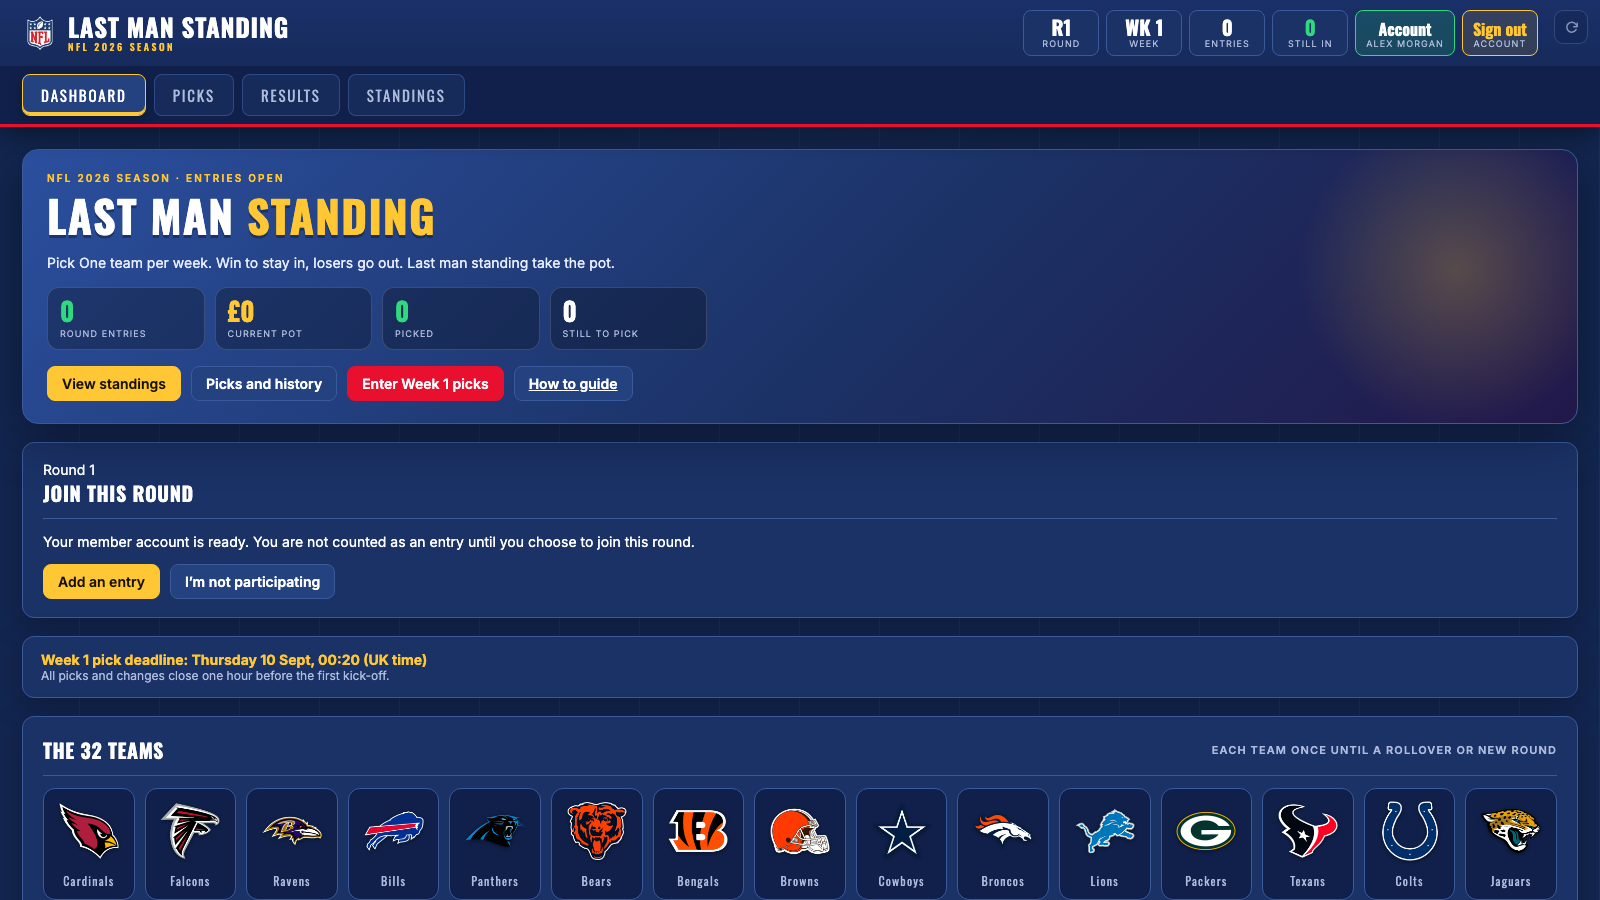
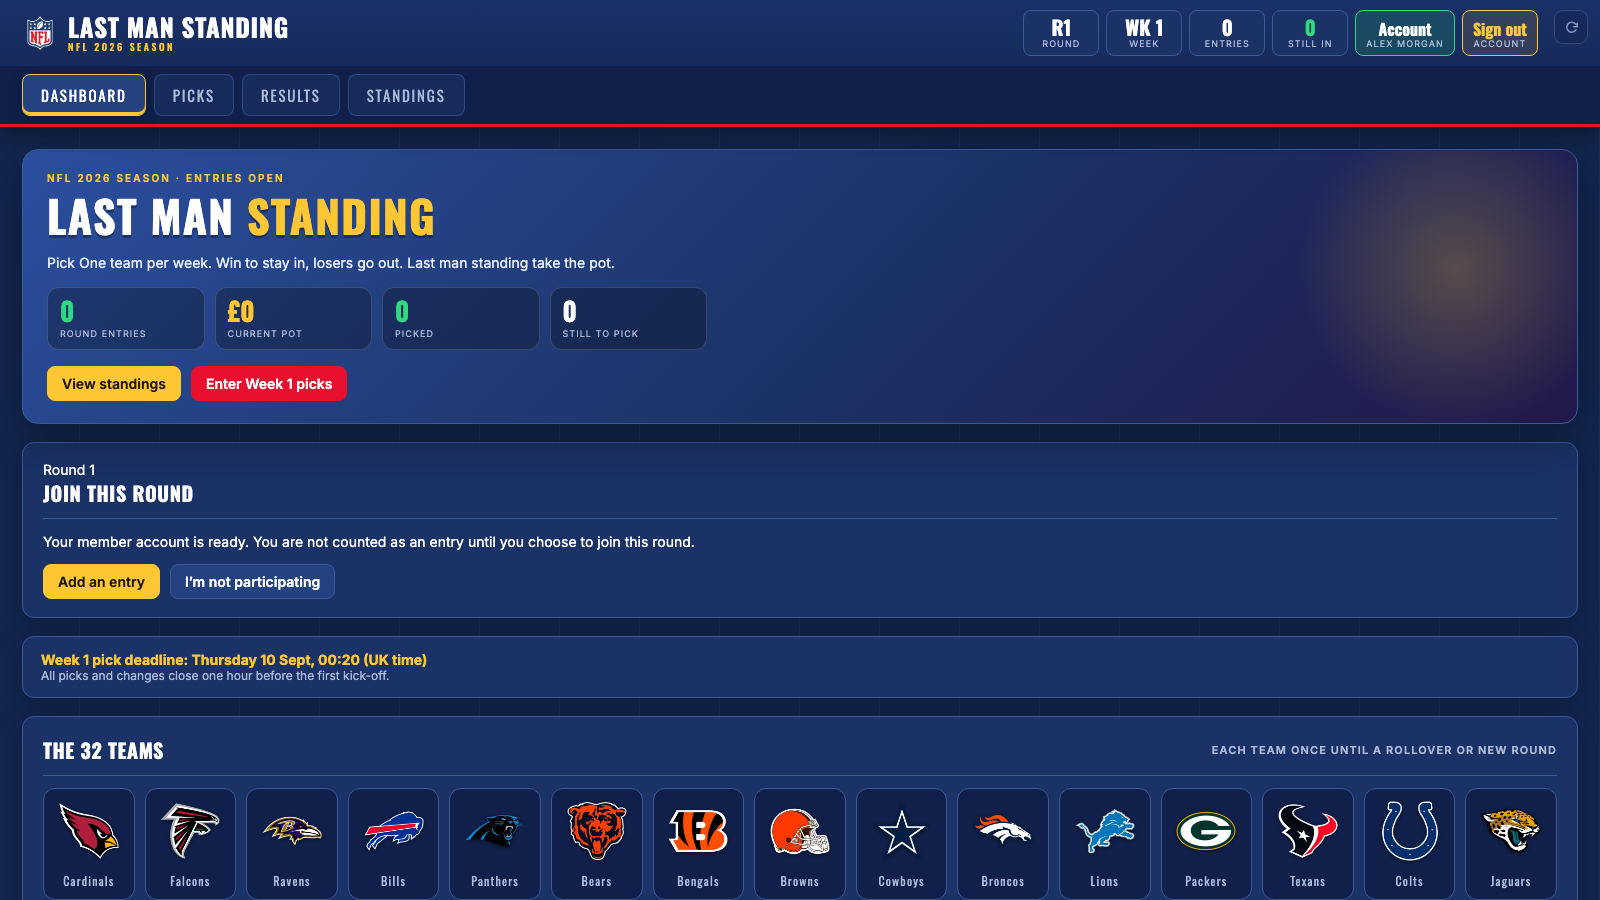
Simplify dashboard actions

Changed region(s): [[0.0938, 0.4044, 0.4062, 0.4667]]

diff --git a/index.html b/index.html
@@ -256,6 +256,8 @@ body.player .season{display:flex;flex-wrap:wrap;gap:10px}
 .herostat .v{font-size:26px;overflow-wrap:anywhere}
 .herostat .l{font-size:9px;letter-spacing:.12em}
 .hero-actions{margin-top:16px;display:flex;gap:10px;flex-wrap:wrap}
+.dashboard-utilities{display:flex;justify-content:flex-end;gap:8px;flex-wrap:wrap;margin:18px 0 4px}.dashboard-utilities .btn{text-decoration:none;background:rgba(36,66,127,.55)}.dashboard-utilities .admin-link{border-color:var(--green);background:rgba(31,191,106,.14)}
+.bigpot:before{content:none}
 .member-week-status{position:absolute;z-index:2;top:18px;right:18px;min-width:104px;border:1px solid currentColor;border-radius:10px;padding:9px 12px;color:#fff;text-align:center;cursor:pointer;box-shadow:0 5px 18px rgba(0,0,0,.28)}
 .member-week-status span,.member-week-status strong{display:block}.member-week-status span{font:600 13px var(--font-head);letter-spacing:.08em;text-transform:uppercase}.member-week-status strong{margin-top:3px;font-size:11px;letter-spacing:.08em;text-transform:uppercase}
 .member-week-status.paid{background:#08783d;border-color:var(--green)}.member-week-status.unpaid{background:#a80f27;border-color:var(--red-2)}.member-week-status.sitting{background:var(--gold);border-color:var(--gold);color:#1a1200}
@@ -816,10 +818,7 @@ function renderHome(r,comp,afterHero=''){
     </div>
     <div class="hero-actions">
       <button class="btn gold" onclick="setView('standings')">View standings</button>
-      <button class="btn" onclick="setView('picks')">Picks and history</button>
       <button class="btn primary" onclick="${accountUser?`setWeek(${w});setView('picks')`:`location.href='/signup'`}">${accountUser?`Enter Week ${w} picks`:'Register or sign in'}</button>
-      ${accountUser&&['owner','admin'].includes(accountUser.role)?'<a class="btn" style="border-color:var(--green);background:rgba(31,191,106,.2)" href="/admin">Admin area</a>':''}
-      <a class="btn" href="/help">How to guide</a>
     </div>
   </div>
   ${afterHero}
@@ -846,6 +845,10 @@ function renderHome(r,comp,afterHero=''){
           <div class="date"><div class="l">Final week</div><div class="d">${new Date(last.date).toLocaleDateString('en-GB',{weekday:'long',day:'numeric',month:'short',year:'numeric',timeZone:'Europe/London'}).replace(',','')}</div><div class="small muted">Week 18</div></div>
         </div>
     </div>
+  </div>
+  <div class="dashboard-utilities" aria-label="Dashboard help and administration">
+    ${accountUser&&['owner','admin'].includes(accountUser.role)?'<a class="btn admin-link" href="/admin">Admin area</a>':''}
+    <a class="btn" href="/help">How to guide</a>
   </div>`;
 }
 
@@ -888,7 +891,6 @@ function renderDash(r,comp){
         <button class="btn primary edit" onclick="setWeek(${w});setView('picks')">Make Week ${w} picks</button>
         <button class="btn edit" onclick="setWeek(${w});setView('results')">Enter results</button>
         ${HOSTED?'':`<button class="btn edit" onclick="fetchWeekResults(${w})">⟳ Fetch Week ${w} scores</button>`}
-        <button class="btn" onclick="setView('picks')">Picks and history</button>
       </div>
     </div>
     <div class="card" style="margin:0">
@@ -942,7 +944,7 @@ function renderStandings(r,comp){
     return `<div class="standing-row"><div class="standing-name"><strong>${esc(entryName(e.id))}</strong></div><div class="standing-picks" aria-label="Teams picked by ${esc(entryName(e.id))}">${picks.join('')||'<span class="muted small">No picks yet</span>'}</div></div>`;
   }).join('')}</div>`:'<div class="empty">Nobody in this group.</div>';
   return `<div class="hero">
-    <div class="bigpot"><div class="lbl">Round ${r.n} prize pot</div><div class="amt">${gbp(pot)}</div><div class="muted small">Confirmed entry and rollover fees &middot; ${entries.length} round ${entries.length===1?'entry':'entries'}</div><div style="margin-top:16px"><button class="btn" onclick="setView('picks')">Picks and history</button></div></div>
+    <div class="bigpot"><div class="lbl">Round ${r.n} prize pot</div><div class="amt">${gbp(pot)}</div><div class="muted small">Confirmed entry and rollover fees &middot; ${entries.length} round ${entries.length===1?'entry':'entries'}</div></div>
     <div class="card" style="margin:0"><h2>Week ${w} status <span class="tag">${weekSettled(w)?'Settled':weekHasResults(w)?'In progress':'Upcoming'}</span></h2><div class="grid two" style="gap:10px"><div><div class="muted small">Still in</div><div style="font-family:var(--font-head);font-size:34px;color:var(--green)">${comp.alive.size}</div></div><div><div class="muted small">Picks outstanding</div><div style="font-family:var(--font-head);font-size:34px;color:${missing.length?'var(--gold)':'var(--green)'}">${missing.length}</div></div></div>${missing.length?`<div class="small muted" style="margin-top:8px">Waiting on: ${missing.slice(0,12).map(e=>esc(e.name)).join(', ')}${missing.length>12?` +${missing.length-12} more`:''}</div>`:''}<div style="margin-top:12px"><div class="muted small" style="margin-bottom:6px">Most picked this week</div>${popular.length?popular.map(([t,c])=>`<span class="av">${logoImg(t)} ${TEAMS[t].short} <b>${c}</b></span>`).join(' '):'<span class="muted small">No picks yet</span>'}</div></div>
   </div>
   <div class="card" style="margin-top:18px"><h1 style="font-family:var(--font-head);margin-top:0">Standings</h1><p class="muted">Round ${r.n}. Current Week ${w} picks stay hidden until kick-off.</p>
@@ -1552,8 +1554,7 @@ function memberEntrySwitcher(){
 function memberTools(){return `<div class="card account-identity"><div><div class="help-kicker">Account settings</div><h1>${esc(accountUser?.name||'Member')}</h1><div class="muted">${esc(accountUser?.email||'')}</div></div><div class="account-actions"><button class="btn" onclick="changeAccountPassword()">Change password</button><a class="btn" href="/help">How to use the app</a><a class="btn gold" href="/dashboard">Exit account settings</a></div></div>`;}
 function noEntryBanner(){
  if(!accountUser||accountEntries.length)return '';
- const staff=['owner','admin'].includes(accountUser.role);
- const sittingOut=accountParticipation==='not_participating';return `<div class="card join-round"><div class="kick">Round ${currentRound().n}</div><h2>${sittingOut?'You are not participating':'Join this round'}</h2><p>${sittingOut?'You are currently marked as not participating. Add an entry whenever you decide to join.':'Your member account is ready. You are not counted as an entry until you choose to join this round.'}</p><div class="row"><button class="btn gold" onclick="addAccountEntry()">Add an entry</button>${!sittingOut?`<button class="btn" onclick="setAccountParticipation('not_participating')">I’m not participating</button>`:''}${sittingOut?`<button class="btn" onclick="setAccountParticipation('not_entered')">Clear this status</button>`:''}${staff?'<a class="btn" href="/admin">Open Admin area</a>':''}</div></div>`;
+ const sittingOut=accountParticipation==='not_participating';return `<div class="card join-round"><div class="kick">Round ${currentRound().n}</div><h2>${sittingOut?'You are not participating':'Join this round'}</h2><p>${sittingOut?'You are currently marked as not participating. Add an entry whenever you decide to join.':'Your member account is ready. You are not counted as an entry until you choose to join this round.'}</p><div class="row"><button class="btn gold" onclick="addAccountEntry()">Add an entry</button>${!sittingOut?`<button class="btn" onclick="setAccountParticipation('not_participating')">I’m not participating</button>`:''}${sittingOut?`<button class="btn" onclick="setAccountParticipation('not_entered')">Clear this status</button>`:''}</div></div>`;
 }
 function memberWeekStatus(r,comp){
  if(!accountUser)return '';
@@ -1565,7 +1566,7 @@ function memberWeekStatus(r,comp){
  return `<button type="button" class="member-week-status ${state}" onclick="focusRoundStatus()" aria-label="Week ${week}: ${label}"><span>Week ${week}</span><strong>${label}</strong></button>`;
 }
 function focusRoundStatus(){document.querySelector('.entry-controls,.join-round')?.scrollIntoView({behavior:'smooth',block:'center'});}
-function memberDashboardControls(e){const paid=e&&entryPaid(e),name=e?entryName(e.id):'',staff=['owner','admin'].includes(accountUser?.role);return `<div class="card entry-controls"><h2>Your round entries <span class="tag">${accountEntries.length} ${accountEntries.length===1?'entry':'entries'}</span></h2>${memberEntrySwitcher()}<div class="row"><button class="btn gold" onclick="addAccountEntry()">Add another entry</button>${e&&!paid?`<button class="btn danger" onclick="removeAccountEntry('${e.id}','${esc(name)}')">Remove this unpaid entry</button>`:''}<button class="btn" onclick="setAccountParticipation('not_participating')">Sit out this round</button>${staff?'<a class="btn" style="border-color:var(--green);background:rgba(31,191,106,.2)" href="/admin">Open Admin area</a>':''}</div><p class="small muted">Every entry must be approved and marked paid by an administrator before it can make a pick. Paid entries must be marked unpaid by an administrator before removal.</p></div>`;}
+function memberDashboardControls(e){const paid=e&&entryPaid(e),name=e?entryName(e.id):'';return `<div class="card entry-controls"><h2>Your round entries <span class="tag">${accountEntries.length} ${accountEntries.length===1?'entry':'entries'}</span></h2>${memberEntrySwitcher()}<div class="row"><button class="btn gold" onclick="addAccountEntry()">Add another entry</button>${e&&!paid?`<button class="btn danger" onclick="removeAccountEntry('${e.id}','${esc(name)}')">Remove this unpaid entry</button>`:''}<button class="btn" onclick="setAccountParticipation('not_participating')">Sit out this round</button></div><p class="small muted">Every entry must be approved and marked paid by an administrator before it can make a pick. Paid entries must be marked unpaid by an administrator before removal.</p></div>`;}
 function renderAccountPage(){
  document.body.classList.add('ro','player');document.getElementById('nav').classList.remove('hidden');const r=currentRound(),comp=computeRound(r),w=defaultWeek();renderHeader(r,comp);document.querySelectorAll('nav button').forEach(b=>b.classList.remove('active'));
  document.getElementById('main').innerHTML=memberTools()+`<div class="card"><h2>Round participation</h2><p>${accountEntries.length?`You have ${accountEntries.length} ${accountEntries.length===1?'entry':'entries'} in Round ${r.n}. Manage entries and picks from your Dashboard.`:accountParticipation==='not_participating'?`You are marked as not participating in Round ${r.n}. You can join from your Dashboard.`:`You have not joined Round ${r.n}. Add an entry from your Dashboard if you want to play.`}</p><a class="btn gold" href="/dashboard">Go to Dashboard</a></div>`;const foot=document.getElementById('foot');if(foot)foot.textContent='Your NFL LMS account settings.';

diff --git a/lib/account-client.js b/lib/account-client.js
@@ -49,8 +49,7 @@ function memberEntrySwitcher(){
 function memberTools(){return `<div class="card account-identity"><div><div class="help-kicker">Account settings</div><h1>${esc(accountUser?.name||'Member')}</h1><div class="muted">${esc(accountUser?.email||'')}</div></div><div class="account-actions"><button class="btn" onclick="changeAccountPassword()">Change password</button><a class="btn" href="/help">How to use the app</a><a class="btn gold" href="/dashboard">Exit account settings</a></div></div>`;}
 function noEntryBanner(){
  if(!accountUser||accountEntries.length)return '';
- const staff=['owner','admin'].includes(accountUser.role);
- const sittingOut=accountParticipation==='not_participating';return `<div class="card join-round"><div class="kick">Round ${currentRound().n}</div><h2>${sittingOut?'You are not participating':'Join this round'}</h2><p>${sittingOut?'You are currently marked as not participating. Add an entry whenever you decide to join.':'Your member account is ready. You are not counted as an entry until you choose to join this round.'}</p><div class="row"><button class="btn gold" onclick="addAccountEntry()">Add an entry</button>${!sittingOut?`<button class="btn" onclick="setAccountParticipation('not_participating')">I’m not participating</button>`:''}${sittingOut?`<button class="btn" onclick="setAccountParticipation('not_entered')">Clear this status</button>`:''}${staff?'<a class="btn" href="/admin">Open Admin area</a>':''}</div></div>`;
+ const sittingOut=accountParticipation==='not_participating';return `<div class="card join-round"><div class="kick">Round ${currentRound().n}</div><h2>${sittingOut?'You are not participating':'Join this round'}</h2><p>${sittingOut?'You are currently marked as not participating. Add an entry whenever you decide to join.':'Your member account is ready. You are not counted as an entry until you choose to join this round.'}</p><div class="row"><button class="btn gold" onclick="addAccountEntry()">Add an entry</button>${!sittingOut?`<button class="btn" onclick="setAccountParticipation('not_participating')">I’m not participating</button>`:''}${sittingOut?`<button class="btn" onclick="setAccountParticipation('not_entered')">Clear this status</button>`:''}</div></div>`;
 }
 function memberWeekStatus(r,comp){
  if(!accountUser)return '';
@@ -62,7 +61,7 @@ function memberWeekStatus(r,comp){
  return `<button type="button" class="member-week-status ${state}" onclick="focusRoundStatus()" aria-label="Week ${week}: ${label}"><span>Week ${week}</span><strong>${label}</strong></button>`;
 }
 function focusRoundStatus(){document.querySelector('.entry-controls,.join-round')?.scrollIntoView({behavior:'smooth',block:'center'});}
-function memberDashboardControls(e){const paid=e&&entryPaid(e),name=e?entryName(e.id):'',staff=['owner','admin'].includes(accountUser?.role);return `<div class="card entry-controls"><h2>Your round entries <span class="tag">${accountEntries.length} ${accountEntries.length===1?'entry':'entries'}</span></h2>${memberEntrySwitcher()}<div class="row"><button class="btn gold" onclick="addAccountEntry()">Add another entry</button>${e&&!paid?`<button class="btn danger" onclick="removeAccountEntry('${e.id}','${esc(name)}')">Remove this unpaid entry</button>`:''}<button class="btn" onclick="setAccountParticipation('not_participating')">Sit out this round</button>${staff?'<a class="btn" style="border-color:var(--green);background:rgba(31,191,106,.2)" href="/admin">Open Admin area</a>':''}</div><p class="small muted">Every entry must be approved and marked paid by an administrator before it can make a pick. Paid entries must be marked unpaid by an administrator before removal.</p></div>`;}
+function memberDashboardControls(e){const paid=e&&entryPaid(e),name=e?entryName(e.id):'';return `<div class="card entry-controls"><h2>Your round entries <span class="tag">${accountEntries.length} ${accountEntries.length===1?'entry':'entries'}</span></h2>${memberEntrySwitcher()}<div class="row"><button class="btn gold" onclick="addAccountEntry()">Add another entry</button>${e&&!paid?`<button class="btn danger" onclick="removeAccountEntry('${e.id}','${esc(name)}')">Remove this unpaid entry</button>`:''}<button class="btn" onclick="setAccountParticipation('not_participating')">Sit out this round</button></div><p class="small muted">Every entry must be approved and marked paid by an administrator before it can make a pick. Paid entries must be marked unpaid by an administrator before removal.</p></div>`;}
 function renderAccountPage(){
  document.body.classList.add('ro','player');document.getElementById('nav').classList.remove('hidden');const r=currentRound(),comp=computeRound(r),w=defaultWeek();renderHeader(r,comp);document.querySelectorAll('nav button').forEach(b=>b.classList.remove('active'));
  document.getElementById('main').innerHTML=memberTools()+`<div class="card"><h2>Round participation</h2><p>${accountEntries.length?`You have ${accountEntries.length} ${accountEntries.length===1?'entry':'entries'} in Round ${r.n}. Manage entries and picks from your Dashboard.`:accountParticipation==='not_participating'?`You are marked as not participating in Round ${r.n}. You can join from your Dashboard.`:`You have not joined Round ${r.n}. Add an entry from your Dashboard if you want to play.`}</p><a class="btn gold" href="/dashboard">Go to Dashboard</a></div>`;const foot=document.getElementById('foot');if(foot)foot.textContent='Your NFL LMS account settings.';

diff --git a/tests/logic.test.js b/tests/logic.test.js
@@ -58,10 +58,11 @@ test('mobile navigation, refresh, help, privacy and announcements stay wired',()
   const standings=current.match(/function renderStandings\(r,comp\)\{[\s\S]*?\/\* ---- Picks ---- \*\//)[0];assert.doesNotMatch(standings,/Awaiting payment|paid, .* unpaid/);
   assert.match(current,/accountUser\?\.name/);assert.match(current,/Add another entry/);assert.match(current,/Choose an entry/);assert.match(current,/must be approved and marked paid/);
   assert.match(current,/function memberWeekStatus\(r,comp\)/);assert.match(current,/Week \$\{week\}/);assert.match(current,/Sitting Out/);assert.match(current,/Not Paid/);assert.match(current,/member-week-status\.paid/);assert.match(current,/member-week-status\.unpaid/);assert.match(current,/member-week-status\.sitting/);
+  assert.match(current,/\.bigpot:before\{content:none\}/);assert.doesNotMatch(current,/Picks and history/);
   assert.match(current,/Rob O’Shea 1/);assert.match(current,/function entryName\(id\)/);assert.match(current,/accountPage==='\/account'\)return renderAccountPage/);
   assert.match(current,/New player\?/);assert.match(current,/Register before you sign in/);assert.match(current,/Register and create account/);assert.match(current,/href="\/signup"/);
   assert.match(current,/function saveMemberName\(/);assert.match(current,/hidden member ID/);assert.match(current,/Last name required/);assert.match(current,/accountUser\?\.role==='owner'/);assert.match(current,/spreadsheet importer is kept in the owner area/);
-  assert.match(current,/function noEntryBanner\(/);assert.match(current,/Join this round/);assert.match(current,/Open Admin area/);assert.match(current,/Add an entry/);assert.match(current,/not participating/);assert.doesNotMatch(current,/if\(!accountEntries\.length\).*return true/);
+  assert.match(current,/function noEntryBanner\(/);assert.match(current,/Join this round/);assert.match(current,/dashboard-utilities/);assert.match(current,/admin-link/);assert.match(current,/Add an entry/);assert.match(current,/not participating/);assert.doesNotMatch(current,/if\(!accountEntries\.length\).*return true/);
   assert.match(current,/Admin pick override/);assert.match(current,/function confirmAdminPick\(/);assert.match(current,/Save admin pick/);assert.match(current,/managed=ADMIN\?entries/);assert.match(current,/What if I cannot sign in before the deadline\?/);assert.match(fs.readFileSync('lib/api.js','utf8'),/deadlineOverridden/);
   assert.match(current,/Mark paid/);assert.match(current,/>Paid<\/span>/);assert.doesNotMatch(current,/Eligible<\/span>/);assert.doesNotMatch(current,/Recent admin activity/);
   assert.match(current,/entries-table \.entry-label/);assert.match(current,/inputmode="numeric"/);
